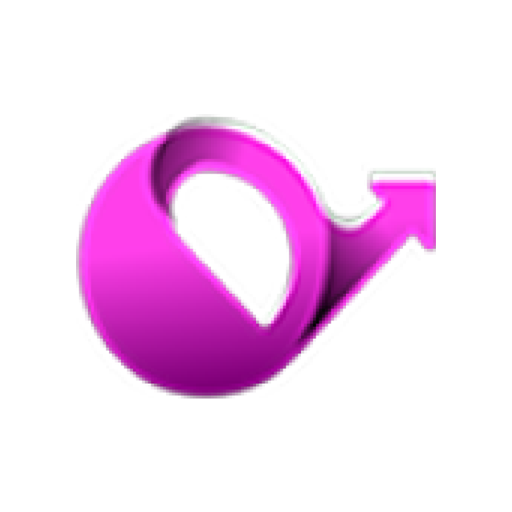
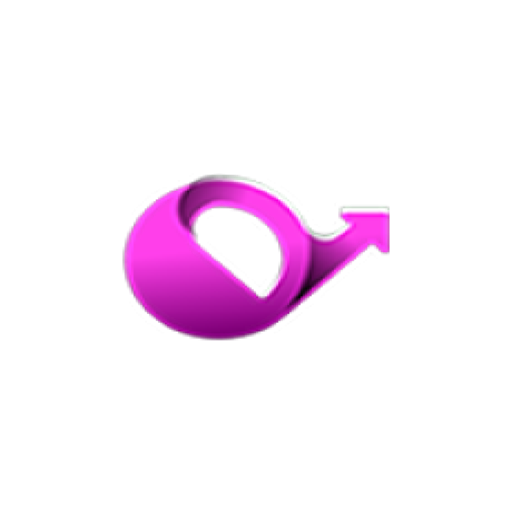
Fix Odoo Apps card blur by providing native 1400x700 cover.png

Changed region(s): [[0.125, 0.2188, 0.875, 0.7812]]

diff --git a/ominiflow_odoo/__manifest__.py b/ominiflow_odoo/__manifest__.py
@@ -37,7 +37,7 @@ Not included (OminiFlow has no public REST API yet):
         'data/ir_cron.xml',
     ],
     'images': [
-        'static/description/icon.png',
+        'static/description/cover.png',
         'static/description/connection.png',
         'static/description/synclogs.png',
     ],
